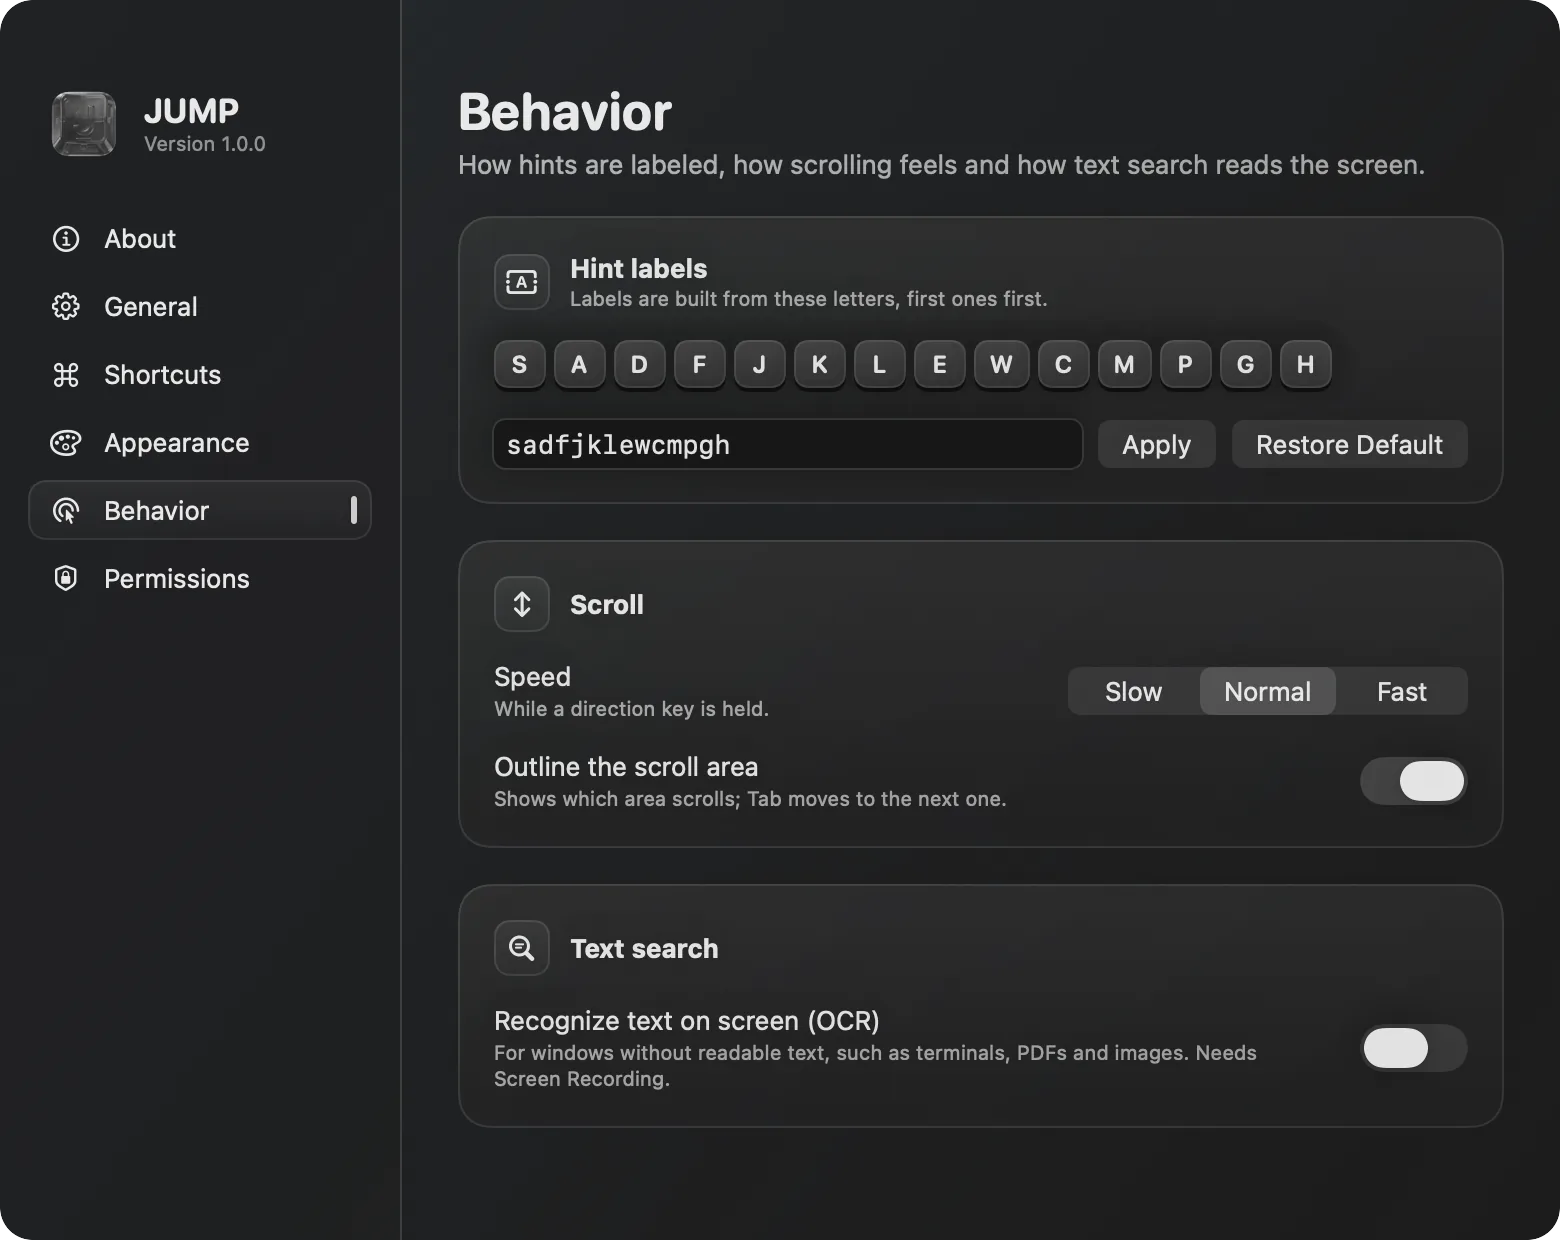
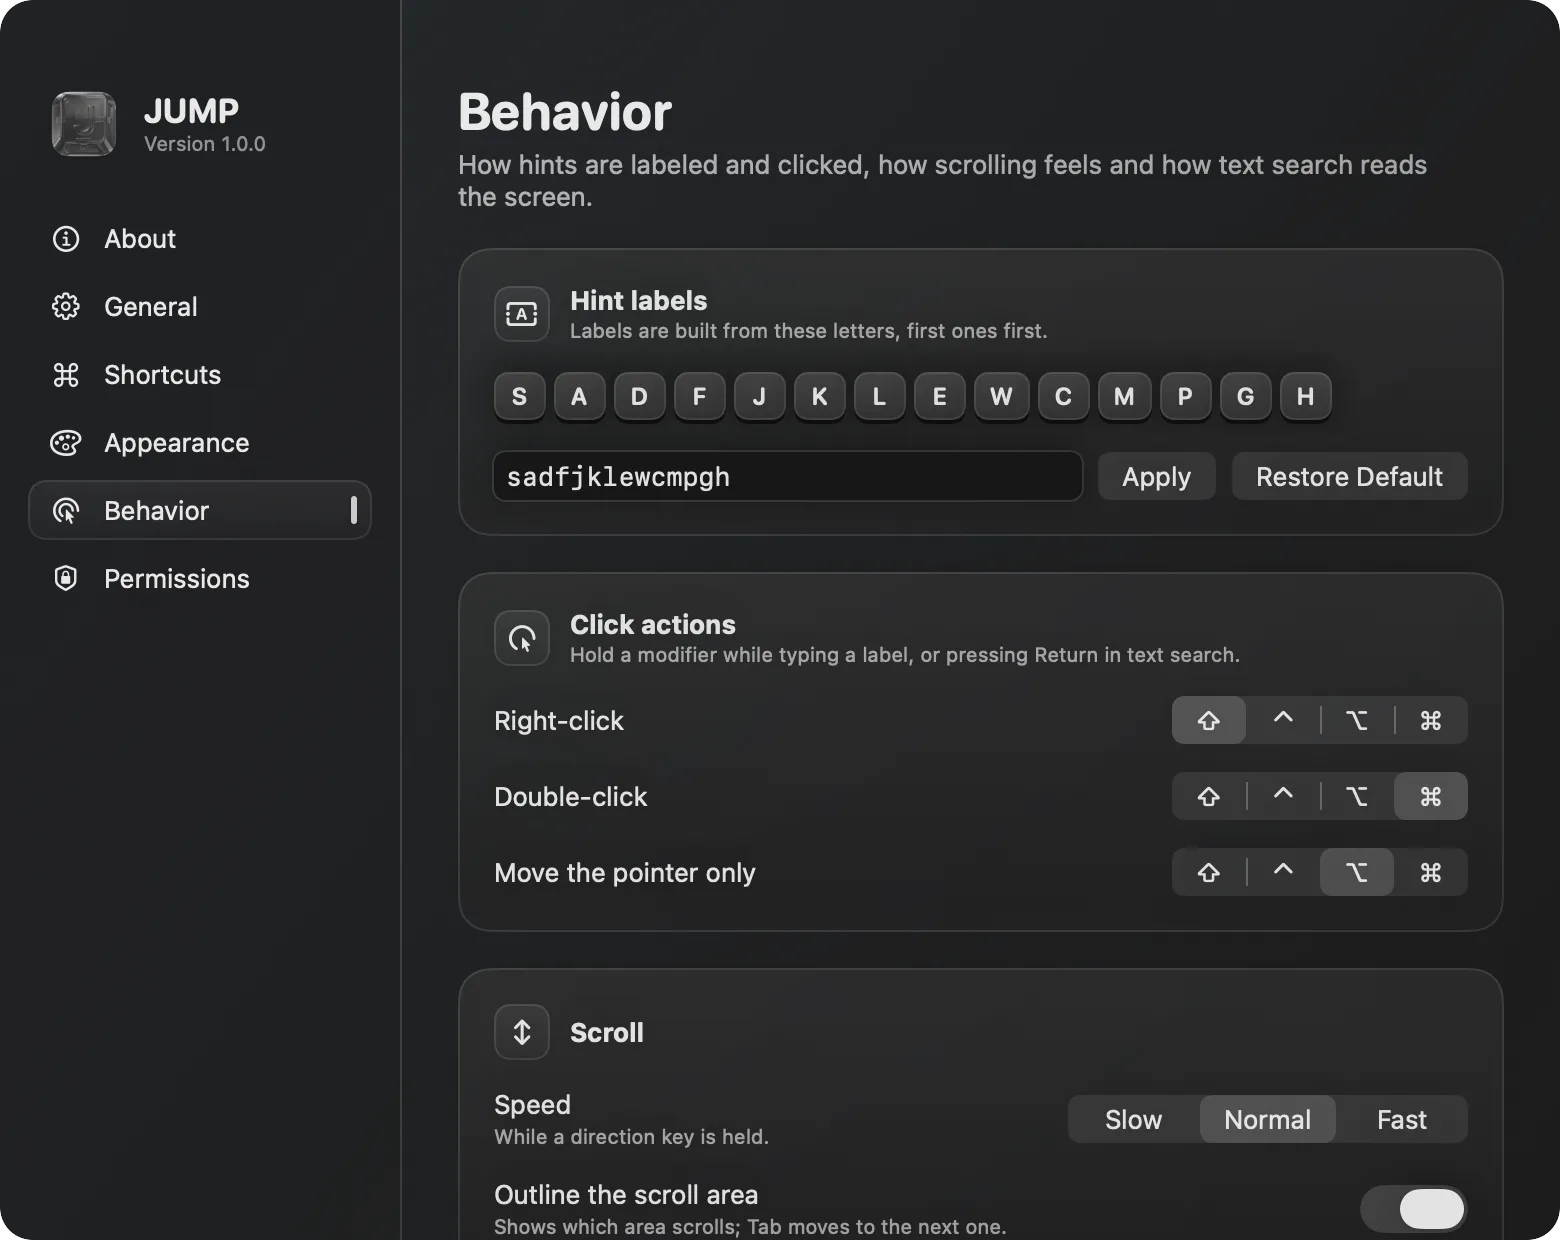
docs: show the Click actions card in the Behavior screenshot

diff --git a/docs/index.html b/docs/index.html
@@ -298,8 +298,8 @@
             <button class="tab" role="tab" id="tab-appearance" aria-controls="shot" aria-selected="true" data-shot="appearance" data-alt="Appearance settings: a live preview of the labels, five themes, size and Liquid Glass">
               <strong>Appearance</strong>Preview themes, size and glass before you use them.
             </button>
-            <button class="tab" role="tab" id="tab-behavior" aria-controls="shot" aria-selected="false" tabindex="-1" data-shot="behavior" data-alt="Behavior settings: the letters labels use, scroll speed, the scroll outline and text recognition">
-              <strong>Behavior</strong>Pick the label letters, scroll speed and text recognition.
+            <button class="tab" role="tab" id="tab-behavior" aria-controls="shot" aria-selected="false" tabindex="-1" data-shot="behavior" data-alt="Behavior settings: the letters labels use, the modifier for each click action, scroll speed and the scroll outline">
+              <strong>Behavior</strong>Pick the label letters, click modifiers and scroll speed.
             </button>
             <button class="tab" role="tab" id="tab-general" aria-controls="shot" aria-selected="false" tabindex="-1" data-shot="general" data-alt="General settings: launch at login, three menu bar icons and the optional Dock icon">
               <strong>General</strong>Choose the menu bar icon and whether JUMP shows in the Dock.

diff --git a/README.md b/README.md
@@ -27,7 +27,7 @@ All three shortcuts can be changed in Settings. Inside any mode, `⌘,` leaves i
 
 | Appearance | Behavior |
 |---|---|
-| ![Appearance settings: label preview, themes, size and Liquid Glass](docs/assets/screenshots/settings-appearance.webp) | ![Behavior settings: label letters, scroll speed, scroll outline and text recognition](docs/assets/screenshots/settings-behavior.webp) |
+| ![Appearance settings: label preview, themes, size and Liquid Glass](docs/assets/screenshots/settings-appearance.webp) | ![Behavior settings: label letters, click modifiers, scroll speed and scroll outline](docs/assets/screenshots/settings-behavior.webp) |
 | **General** | **Permissions** |
 | ![General settings: launch at login, menu bar icon and Dock icon](docs/assets/screenshots/settings-general.webp) | ![Permissions settings: Accessibility and Screen Recording](docs/assets/screenshots/settings-permissions.webp) |
 
